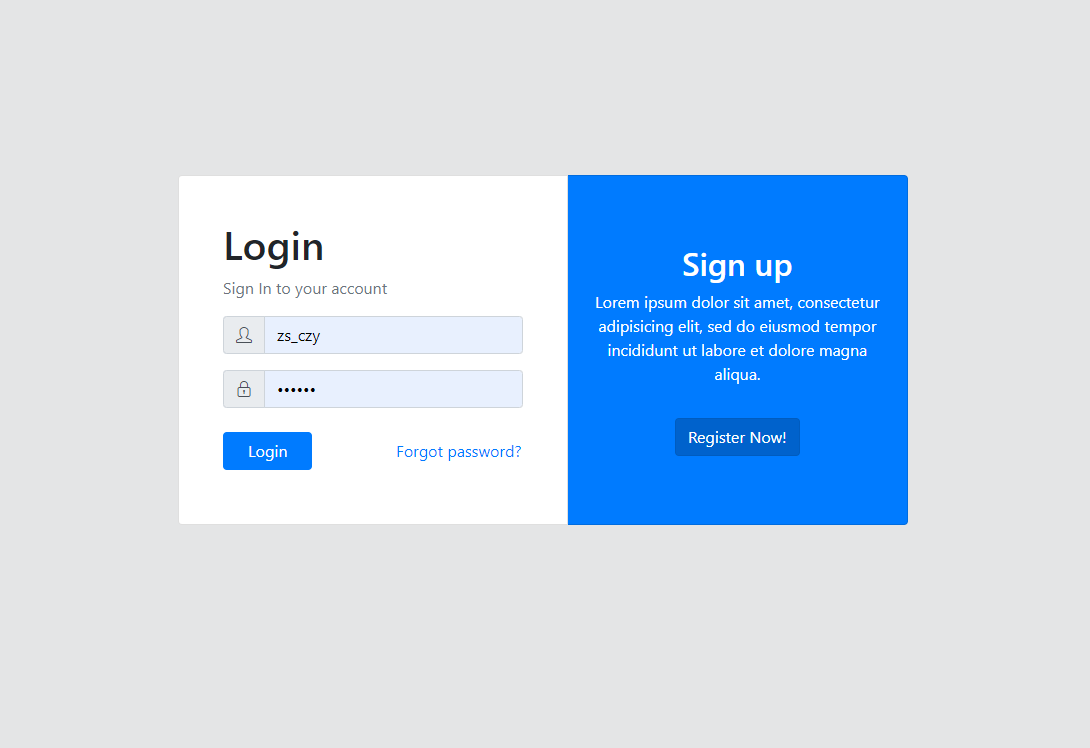
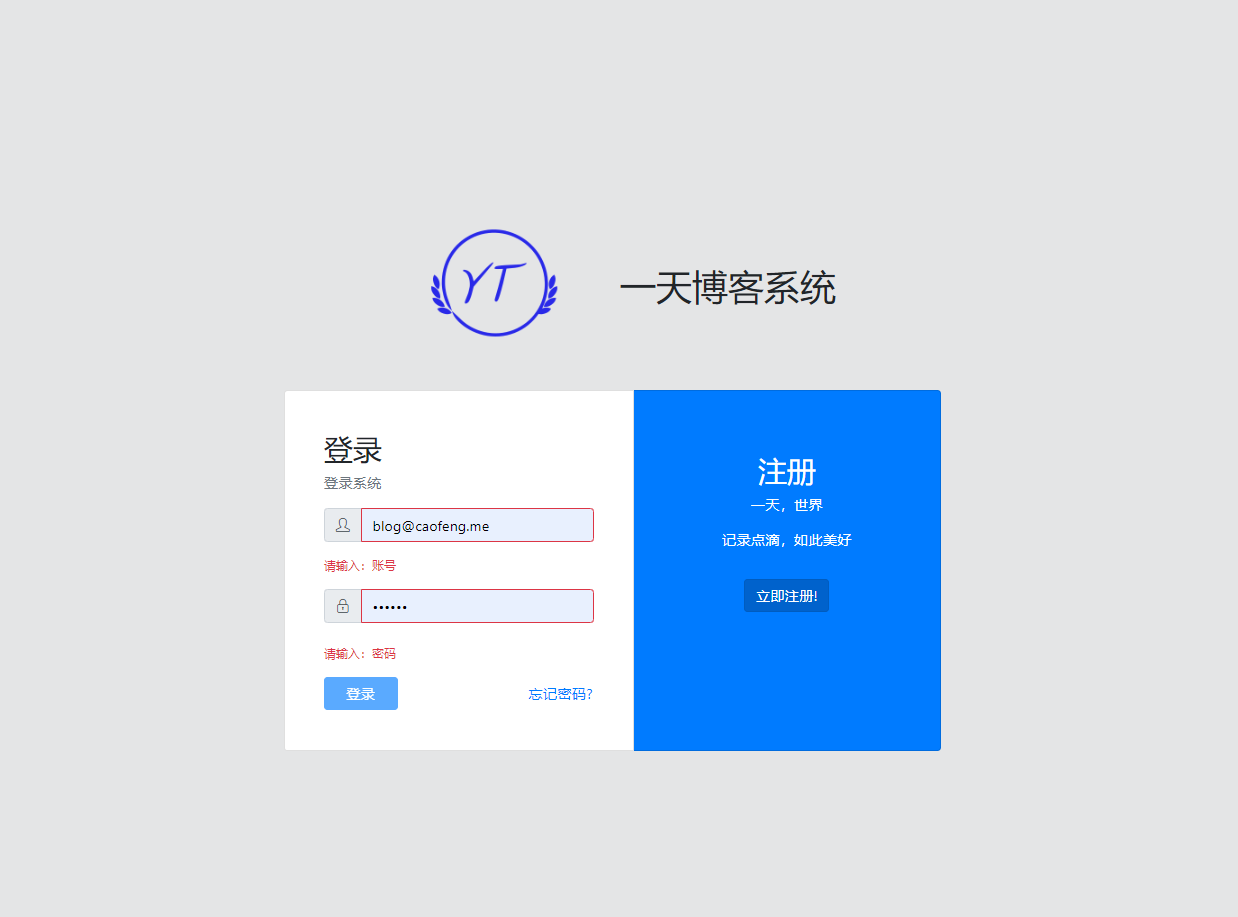
change login preview image

Changed region(s): [[0.156, 0.2152, 0.8422, 0.8302]]

diff --git a/README.md b/README.md
@@ -179,7 +179,8 @@ spring-boot-blog
 在idea中打开项目，运行BlogApplication的main函数，执行该方法，即可运行项目。
 
 ## Login 
-login page and interface
+login page and interface。
+目前还没有设计数据结构和数据库，不做实际的登录功能，只写下页面效果和定义登录接口。
 ### login page 
 在src目录下新建一个目录"views"，用来存放所有的路由组件,再新建一个pages来存放单独（没有其他页面结构）的路由组件，
 ```
